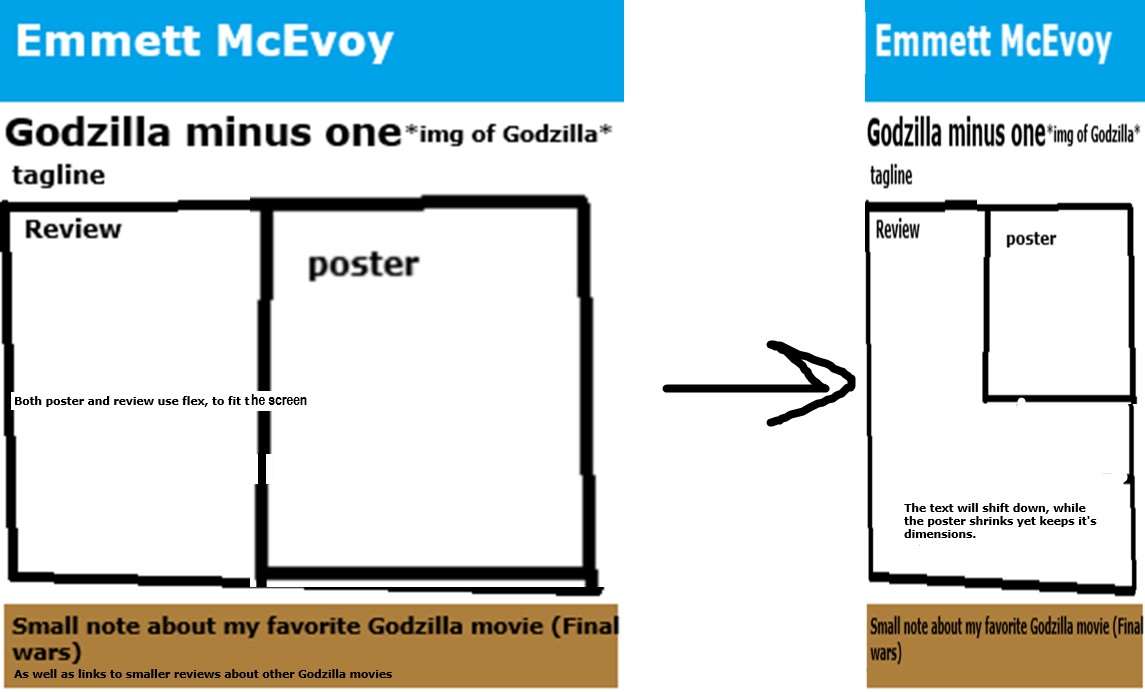
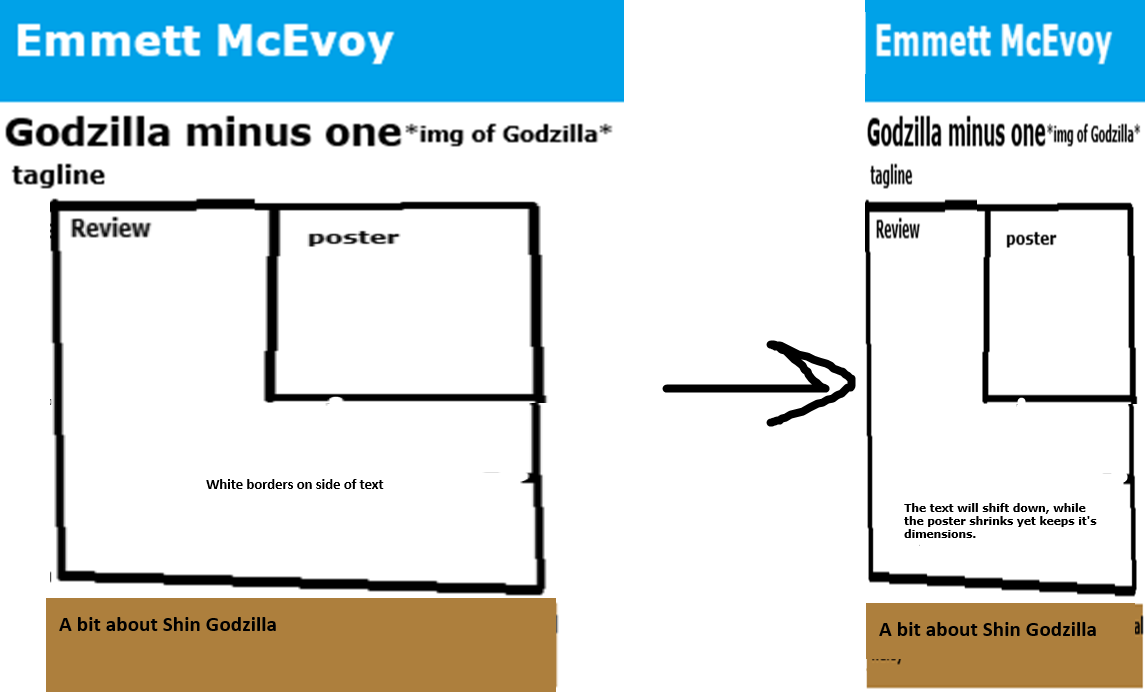
changes

Changed region(s): [[0.0, 0.2731, 0.5502, 1.0], [0.7642, 0.8801, 1.0, 0.9711]]

diff --git a/project1/doc.html b/project1/doc.html
@@ -15,6 +15,6 @@
 
     <p>I belive my websites will use flexes, since there's only a body of text plus image that I really need to wory about. I'll also use precentages for the image sizes, since I want it to scale with the text.</p>
 
-    <p>Also, the text will go to the left side when the screen is big enought for easy reading on bigger screens</p>
+    <p>Also, the text will increase in size when the window's width is shortened, and the white space will also disapear.</p>
 
 </body>
